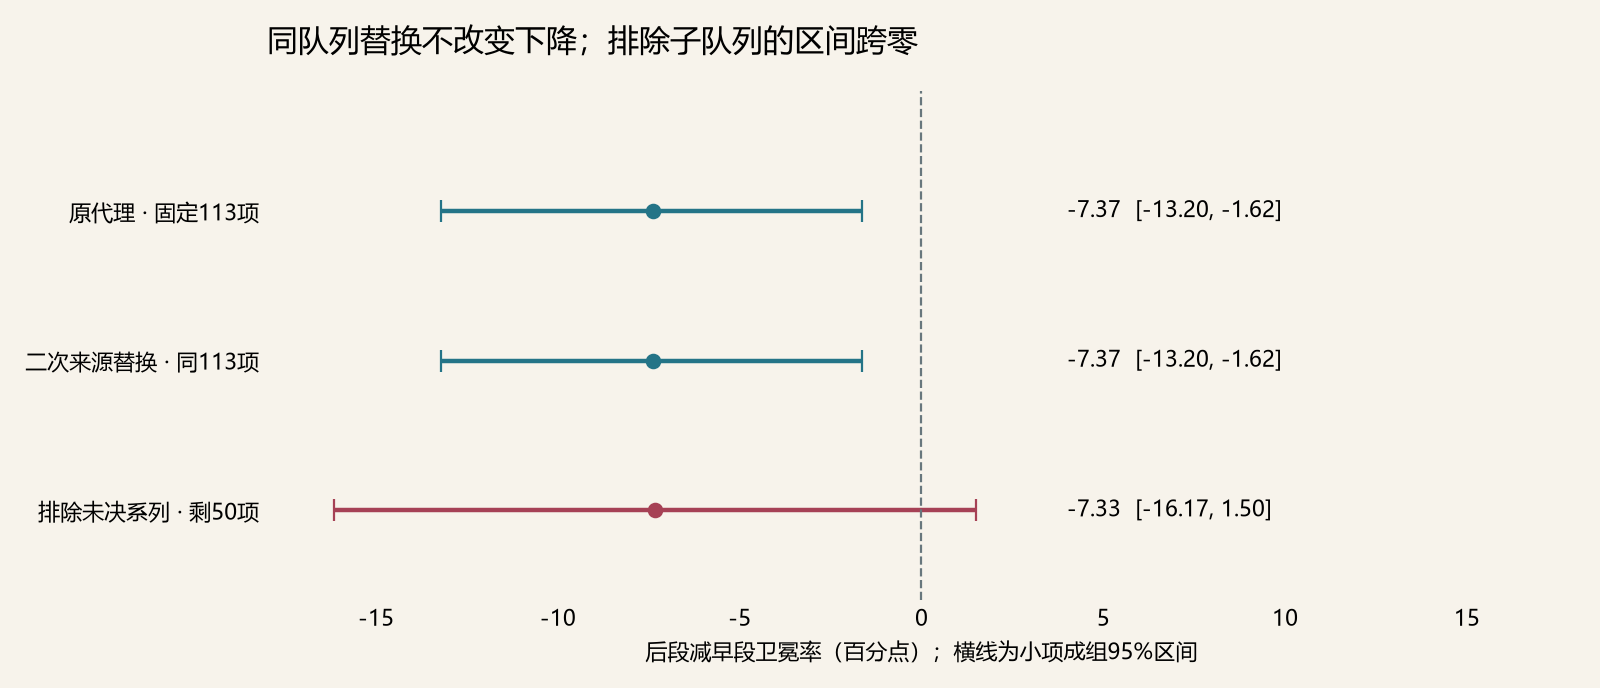
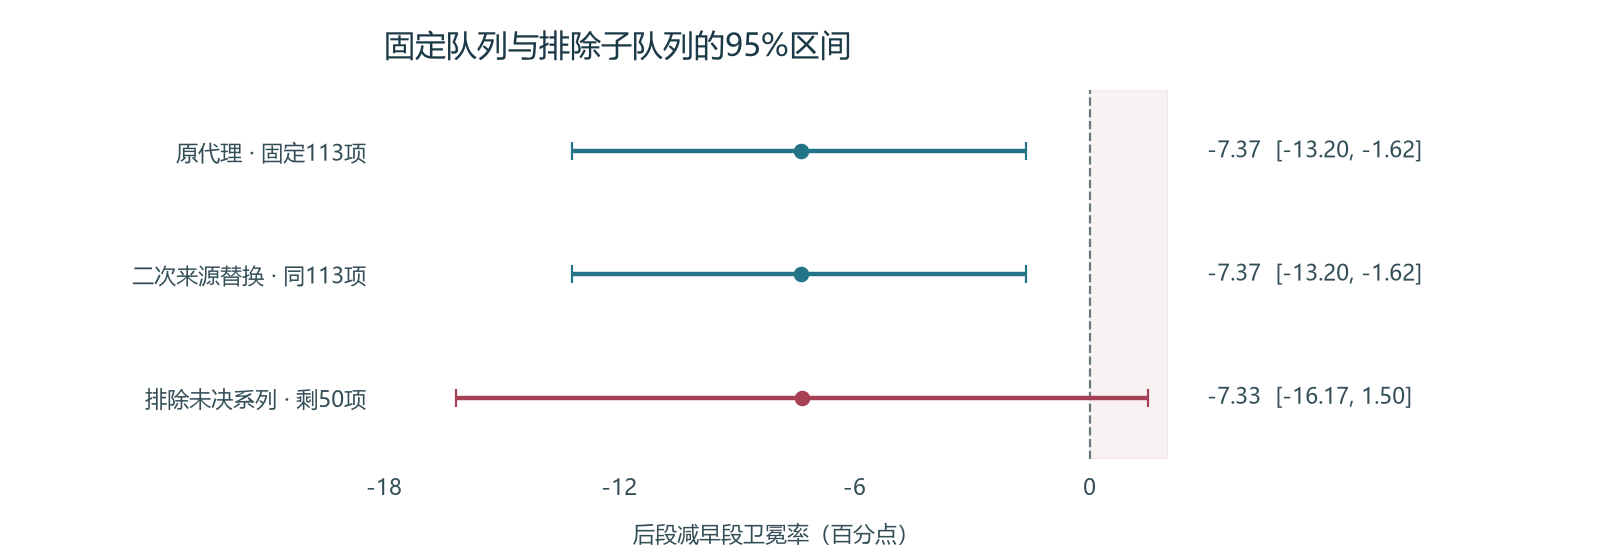
Unify the fixed cohort conclusion and evidence layout

diff --git a/交付文件/任务三_专题深挖/S3_冠军的保质期/09_固定小项队列检验/index.html b/交付文件/任务三_专题深挖/S3_冠军的保质期/09_固定小项队列检验/index.html
@@ -265,7 +265,7 @@ body.ox-flow.ox-depart{opacity:.68;transform:translateY(-5px);transition:opacity
 <link href="../../../共享组件/olympic-guide.css" rel="stylesheet"/>
 <link href="../../../共享组件/integrated-nav.css?v=9" rel="stylesheet"/>
 <link href="../../../共享组件/olympic-atmosphere.css?v=3" rel="stylesheet"/>
-<link href="../../../共享组件/chart-surface.css" id="chart-surface-theme" rel="stylesheet"/><link href="../../../共享组件/research-proof-links.css" id="research-proof-links" rel="stylesheet"/><link rel="stylesheet" href="../../../共享组件/dynasty-fixed-reading.css?v=wide"></head><body class="ed-module-3 unified-topbar-added hero-motion"><nav aria-label="作品导航" id="xz-nav"><a class="xz-brand" href="../../../作品总入口/index.html"><span class="xz-mark">晓</span><span>奥运数据观察</span></a><div class="xz-links"><a href="../../../任务一_数据体检/index.html">01 数据体检</a><a href="../../../任务二_百年全景/05_交互总览/index.html">02 百年全景</a><a aria-current="page" href="../../统一中文入口/index.html">03 专题深挖</a><a href="../../../任务四_开放创作/index.html">04 洛杉矶2028</a><button aria-label="切换深色模式" id="xz-theme" title="切换深色模式" type="button">◐</button><button aria-controls="xz-menu" aria-expanded="false" id="xz-menu-button" type="button">目录 ☰</button></div></nav><div id="xz-progress"></div><aside class="formal-entry" hidden="" id="xz-menu"><h2>探索全部作品</h2><a href="../../../作品总入口/index.html">实验室<small>四个实验室，自由探索</small></a><a href="../../../任务一_数据体检/index.html">数据体检室<small>质量检查与统计口径</small></a><a href="../../../任务二_百年全景/05_交互总览/index.html">百年全景<small>届次、性别、项目联动</small></a><a href="../../统一中文入口/index.html">专题深挖<small>口径、王朝与主场</small></a><a href="../../../任务四_开放创作/index.html">洛杉矶2028<small>预测与数据新闻</small></a></aside><button aria-label="返回顶部" id="xz-top" title="返回顶部" type="button">↑</button><main class="dynasty-fixed-reading"><small>任务三 / S7 王朝寿命</small><h1>固定比赛项目后，<br/>王朝仍在变短吗？</h1><p>保留 1960—2016 每届连续存在且名称稳定的 113 个小项，再比较同一代表团连续卫冕的比例。</p><div class="grid"><div class="card">早段 1964—1976<b>34.5%</b></div><div class="card">后段 1996—2016<b>27.1%</b></div><div class="card">差值 95% 区间<b>-13.2 至 -1.6 pp</b></div></div><img alt="固定小项逐届卫冕率" class="chart-surface dynasty-fixed-trend" src="固定小项王朝压力测试.png"/>
+<link href="../../../共享组件/chart-surface.css" id="chart-surface-theme" rel="stylesheet"/><link href="../../../共享组件/research-proof-links.css" id="research-proof-links" rel="stylesheet"/><link rel="stylesheet" href="../../../共享组件/dynasty-fixed-reading.css?v=evidence"></head><body class="ed-module-3 unified-topbar-added hero-motion"><nav aria-label="作品导航" id="xz-nav"><a class="xz-brand" href="../../../作品总入口/index.html"><span class="xz-mark">晓</span><span>奥运数据观察</span></a><div class="xz-links"><a href="../../../任务一_数据体检/index.html">01 数据体检</a><a href="../../../任务二_百年全景/05_交互总览/index.html">02 百年全景</a><a aria-current="page" href="../../统一中文入口/index.html">03 专题深挖</a><a href="../../../任务四_开放创作/index.html">04 洛杉矶2028</a><button aria-label="切换深色模式" id="xz-theme" title="切换深色模式" type="button">◐</button><button aria-controls="xz-menu" aria-expanded="false" id="xz-menu-button" type="button">目录 ☰</button></div></nav><div id="xz-progress"></div><aside class="formal-entry" hidden="" id="xz-menu"><h2>探索全部作品</h2><a href="../../../作品总入口/index.html">实验室<small>四个实验室，自由探索</small></a><a href="../../../任务一_数据体检/index.html">数据体检室<small>质量检查与统计口径</small></a><a href="../../../任务二_百年全景/05_交互总览/index.html">百年全景<small>届次、性别、项目联动</small></a><a href="../../统一中文入口/index.html">专题深挖<small>口径、王朝与主场</small></a><a href="../../../任务四_开放创作/index.html">洛杉矶2028<small>预测与数据新闻</small></a></aside><button aria-label="返回顶部" id="xz-top" title="返回顶部" type="button">↑</button><main class="dynasty-fixed-reading"><small>任务三 / S7 王朝寿命</small><h1>固定比赛项目后，<br/>王朝仍在变短吗？</h1><p>保留 1960—2016 每届连续存在且名称稳定的 113 个小项，再比较同一代表团连续卫冕的比例。</p><div class="grid"><div class="card">早段 1964—1976<b>34.5%</b></div><div class="card">后段 1996—2016<b>27.1%</b></div><div class="card">差值 95% 区间<b>-13.2 至 -1.6 pp</b></div></div><img alt="固定小项逐届卫冕率" class="chart-surface dynasty-fixed-trend" src="固定小项王朝压力测试.png"/>
 <!-- DYNASTY_EDITION_TABLE_START -->
 <details class="dynasty-edition-table">
 <summary>查看逐届卫冕率</summary>

diff --git a/交付文件/共享组件/dynasty-fixed-reading.css b/交付文件/共享组件/dynasty-fixed-reading.css
@@ -42,3 +42,25 @@ html body .dynasty-edition-table :is(th,td){
 }
 html body .dynasty-edition-table thead th{background:#8ca5ad22!important}
 html body .dynasty-edition-table :is(th,td):nth-child(n+3){text-align:end}
+
+html body main.dynasty-fixed-reading{padding-bottom:24px!important}
+html body .dynasty-fixed-reading>.note{
+ background:transparent!important;color:inherit!important;box-shadow:none!important;
+ border:0!important;border-inline-start:3px solid #ad9464!important;
+ border-radius:0!important;padding:4px 0 4px 18px!important;
+}
+html body .dynasty-fixed-reading>.note h2{margin:0 0 8px}
+html body .dynasty-fixed-reading>.note p{max-width:86ch;margin:0}
+html body .dynasty-fixed-reading>.note+p{display:flex;flex-wrap:wrap;gap:8px 22px}
+html body .dynasty-fixed-reading>.note+p a{color:#31677c!important;text-underline-offset:5px}
+html body.xz-dark .dynasty-fixed-reading>.note+p a{color:#e5cc9b!important}
+html body:has(main.dynasty-fixed-reading) :is(#dynasty-source-sensitivity,a.research-proof-link){
+ width:auto!important;max-width:none!important;
+ margin:12px clamp(16px,4.5vw,112px) 24px!important;padding:22px 0!important;
+}
+html body:has(main.dynasty-fixed-reading) a.research-proof-link{display:block!important}
+html body:has(main.dynasty-fixed-reading) a.research-proof-link::after{content:none!important}
+html body:has(main.dynasty-fixed-reading) #dynasty-source-sensitivity p{max-width:86ch}
+html body:has(main.dynasty-fixed-reading) #dynasty-source-sensitivity img{
+ max-width:1200px;mix-blend-mode:normal!important
+}

diff --git a/项目工作区/scripts/dynasty_fixed_panel.py b/项目工作区/scripts/dynasty_fixed_panel.py
@@ -79,7 +79,7 @@ md=f'''# 固定小项队列：王朝变短是否只是项目表更替？
 本结论描述的是**代表团对小项金牌的连续控制**，不是个人冠军寿命，也不能归因于运动员变弱。Event 名称相同不能保证项目规则完全不变；样本仅为长期存续小项，历史小项为主数据代理而非逐项 IOC 官方表。图、逐届转移、纳入队列与运动排除表可在本文件夹复核。运行 `python 项目工作区/scripts/dynasty_fixed_panel.py` 重建。
 '''
 (OUT/'固定小项队列研究.md').write_text(md,encoding='utf-8')
-html=f'''<!doctype html><html lang="zh-CN"><head><meta charset="utf-8"><meta name="viewport" content="width=device-width,initial-scale=1"><title>王朝固定小项检验</title><style>body{{margin:0;background:#f2eee5;color:#173447;font-family:"Microsoft YaHei",sans-serif}}main{{max-width:1050px;margin:auto;padding:64px 24px 90px}}h1{{font-size:clamp(40px,6vw,72px);line-height:1.15}}p{{line-height:1.8}}img{{width:100%;border-radius:18px}}.grid{{display:grid;grid-template-columns:repeat(3,1fr);gap:15px;margin:28px 0}}.card{{padding:22px;border-radius:19px;background:#fffaf2}}.card b{{display:block;font:700 36px Georgia;color:#235e79}}.note{{background:#173e54;color:#fff;padding:25px;border-radius:20px}}a{{color:#23719b}}@media(max-width:700px){{.grid{{grid-template-columns:1fr}}}}</style><link rel="stylesheet" href="../../../共享组件/dynasty-fixed-reading.css?v=wide"></head><body><main class="dynasty-fixed-reading"><small>任务三 / S7 王朝寿命</small><h1>固定比赛项目后，<br>王朝仍在变短吗？</h1><p>保留 1960—2016 每届连续存在且名称稳定的 {len(keys)} 个小项，再比较同一代表团连续卫冕的比例。</p><div class="grid"><div class="card">早段 1964—1976<b>{early_rate:.1%}</b></div><div class="card">后段 1996—2016<b>{late_rate:.1%}</b></div><div class="card">差值 95% 区间<b>{ci[0]*100:.1f} 至 {ci[1]*100:.1f} pp</b></div></div><img class="chart-surface dynasty-fixed-trend" src="固定小项王朝压力测试.png" alt="固定小项逐届卫冕率"><div class="note"><h2>结论与边界</h2><p>项目新增和退出不能完全解释这一固定队列中的下降；改动观察窗口会改变幅度。结果仍不是个人冠军寿命，也不能证明竞技竞争加剧是唯一原因。历史 Event 为代理，且只选择长期存续项目。</p></div><p><a href="固定小项队列研究.md">完整方法与敏感度</a>　<a href="固定小项逐届控制权转移.csv">逐届原表</a>　<a href="逐运动排除敏感度.csv">运动排除表</a></p></main></body></html>'''
+html=f'''<!doctype html><html lang="zh-CN"><head><meta charset="utf-8"><meta name="viewport" content="width=device-width,initial-scale=1"><title>王朝固定小项检验</title><style>body{{margin:0;background:#f2eee5;color:#173447;font-family:"Microsoft YaHei",sans-serif}}main{{max-width:1050px;margin:auto;padding:64px 24px 90px}}h1{{font-size:clamp(40px,6vw,72px);line-height:1.15}}p{{line-height:1.8}}img{{width:100%;border-radius:18px}}.grid{{display:grid;grid-template-columns:repeat(3,1fr);gap:15px;margin:28px 0}}.card{{padding:22px;border-radius:19px;background:#fffaf2}}.card b{{display:block;font:700 36px Georgia;color:#235e79}}.note{{background:#173e54;color:#fff;padding:25px;border-radius:20px}}a{{color:#23719b}}@media(max-width:700px){{.grid{{grid-template-columns:1fr}}}}</style><link rel="stylesheet" href="../../../共享组件/dynasty-fixed-reading.css?v=evidence"></head><body><main class="dynasty-fixed-reading"><small>任务三 / S7 王朝寿命</small><h1>固定比赛项目后，<br>王朝仍在变短吗？</h1><p>保留 1960—2016 每届连续存在且名称稳定的 {len(keys)} 个小项，再比较同一代表团连续卫冕的比例。</p><div class="grid"><div class="card">早段 1964—1976<b>{early_rate:.1%}</b></div><div class="card">后段 1996—2016<b>{late_rate:.1%}</b></div><div class="card">差值 95% 区间<b>{ci[0]*100:.1f} 至 {ci[1]*100:.1f} pp</b></div></div><img class="chart-surface dynasty-fixed-trend" src="固定小项王朝压力测试.png" alt="固定小项逐届卫冕率"><div class="note"><h2>结论与边界</h2><p>项目新增和退出不能完全解释这一固定队列中的下降；改动观察窗口会改变幅度。结果仍不是个人冠军寿命，也不能证明竞技竞争加剧是唯一原因。历史 Event 为代理，且只选择长期存续项目。</p></div><p><a href="固定小项队列研究.md">完整方法与敏感度</a>　<a href="固定小项逐届控制权转移.csv">逐届原表</a>　<a href="逐运动排除敏感度.csv">运动排除表</a></p></main></body></html>'''
 (OUT/'index.html').write_text(html,encoding='utf-8')
 from publish_dynasty_fixed_table import publish_edition_table
 publish_edition_table(OUT)

diff --git a/项目工作区/scripts/dynasty_source_sensitivity.py b/项目工作区/scripts/dynasty_source_sensitivity.py
@@ -89,17 +89,26 @@ matplotlib.use('Agg')
 import matplotlib.pyplot as plt
 plt.rcParams['font.sans-serif']=['Microsoft YaHei','SimHei']
 plt.rcParams['axes.unicode_minus']=False
-fig,ax=plt.subplots(figsize=(10,4.3),facecolor='#f7f3eb');ax.set_facecolor('#f7f3eb')
+fig,ax=plt.subplots(figsize=(10,3.5))
+ax.axvspan(0,2,color='#a64155',alpha=.07)
+ax.axvline(0,color='#68777d',ls='--',lw=1,zorder=1)
 for i,r in enumerate(summary[:3]):
-    x=r['后减前百分点'];color='#247487' if i<2 else '#a64155'
-    ax.errorbar(x,2-i,xerr=[[x-r['区间下限']],[r['区间上限']-x]],fmt='o',color=color,capsize=5,lw=2)
-    ax.text(4,2-i,f"{x:.2f}  [{r['区间下限']:.2f}, {r['区间上限']:.2f}]",va='center',fontsize=10)
-ax.axvline(0,color='#68777d',ls='--',lw=1)
+    x=r['后减前百分点']
+    lower,upper=r['区间下限'],r['区间上限']
+    color='#247487' if upper<0 else '#a64155'
+    ax.errorbar(x,2-i,xerr=[[x-lower],[upper-x]],fmt='o',color=color,capsize=4,lw=2)
+    ax.text(3,2-i,f"{x:.2f}  [{lower:.2f}, {upper:.2f}]",va='center',fontsize=10,color='#344e58',clip_on=False)
 ax.set_yticks([2,1,0],['原代理 · 固定113项','二次来源替换 · 同113项','排除未决系列 · 剩50项'])
-ax.set_xlim(-18,18);ax.set_ylim(-.6,2.8);ax.set_xlabel('后段减早段卫冕率（百分点）；横线为小项成组95%区间')
-ax.set_title('同队列替换不改变下降；排除子队列的区间跨零',loc='left',pad=18,fontsize=14)
-for sp in ax.spines.values():sp.set_visible(False)
-ax.tick_params(length=0);fig.tight_layout();fig.savefig(OUT/'冠军延续来源敏感性.png',dpi=160);plt.close(fig)
+ax.set_xlim(-18,2)
+ax.set_xticks([-18,-12,-6,0])
+ax.set_ylim(-.5,2.5)
+ax.set_xlabel('后段减早段卫冕率（百分点）',labelpad=10,color='#344e58')
+ax.set_title('固定队列与排除子队列的95%区间',loc='left',pad=15,fontsize=14,color='#1b3947')
+ax.spines[:].set_visible(False)
+ax.tick_params(length=0,pad=8,colors='#344e58',labelsize=10)
+fig.subplots_adjust(left=.24,right=.73,bottom=.18,top=.84)
+fig.savefig(OUT/'冠军延续来源敏感性.png',dpi=160,transparent=True)
+plt.close(fig)
 
 import runpy
 runpy.run_path(str(Path(__file__).with_name('publish_dynasty_source_reading.py')))

diff --git a/项目交接_请新AI先读.md b/项目交接_请新AI先读.md
@@ -1214,3 +1214,5 @@ A–D八张核心图已重绘并同步四视角复核页。先生成任务二数
 固定小项检验的主趋势图重绘为透明底，分别标出早段、后段均值与未纳入主比较的届次。
 
 固定小项队列检验取消主体最大宽度，标题、指标、主图与明细表共用宽屏内容区。
+
+固定小项检验统一结论、资料和核验区的宽版边距，来源敏感性区间图改为透明底并突出零线。

diff --git a/README.md b/README.md
@@ -633,3 +633,5 @@ A–D八张核心图已重绘并同步四视角复核页。先生成任务二数
 固定小项检验的主趋势图重绘为透明底，分别标出早段、后段均值与未纳入主比较的届次。
 
 固定小项队列检验取消主体最大宽度，标题、指标、主图与明细表共用宽屏内容区。
+
+固定小项检验统一结论、资料和核验区的宽版边距，来源敏感性区间图改为透明底并突出零线。
